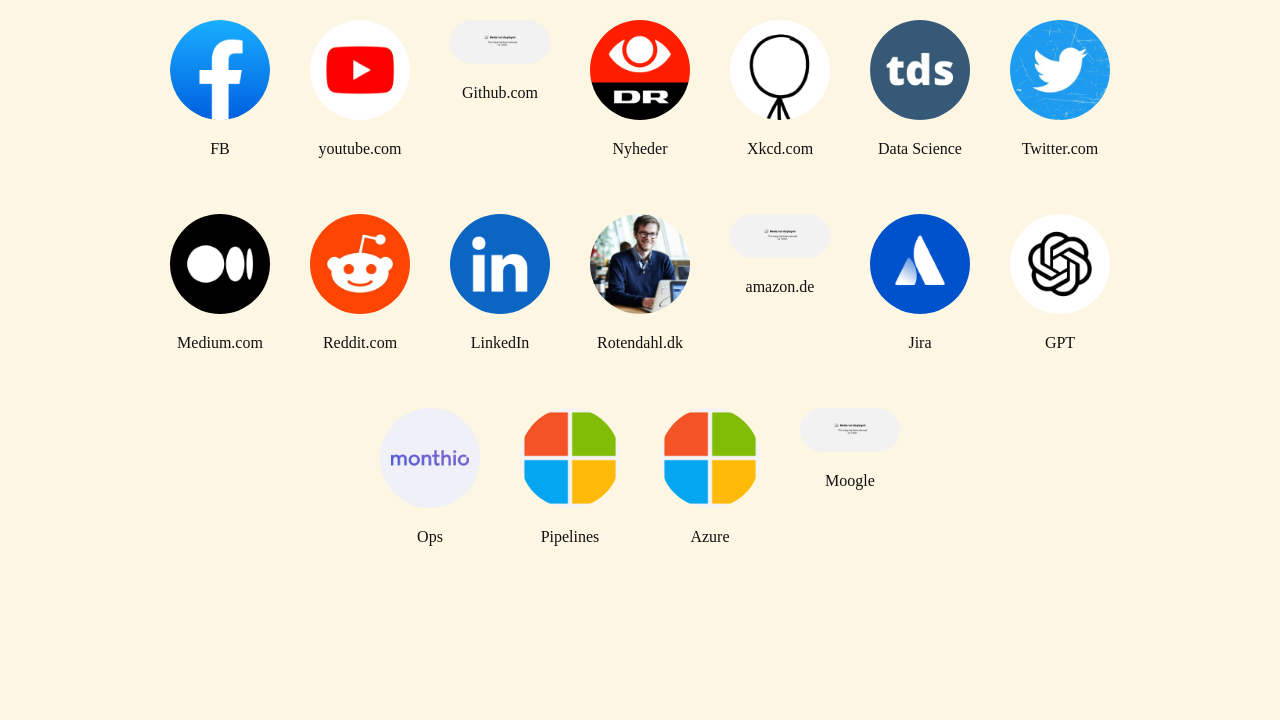
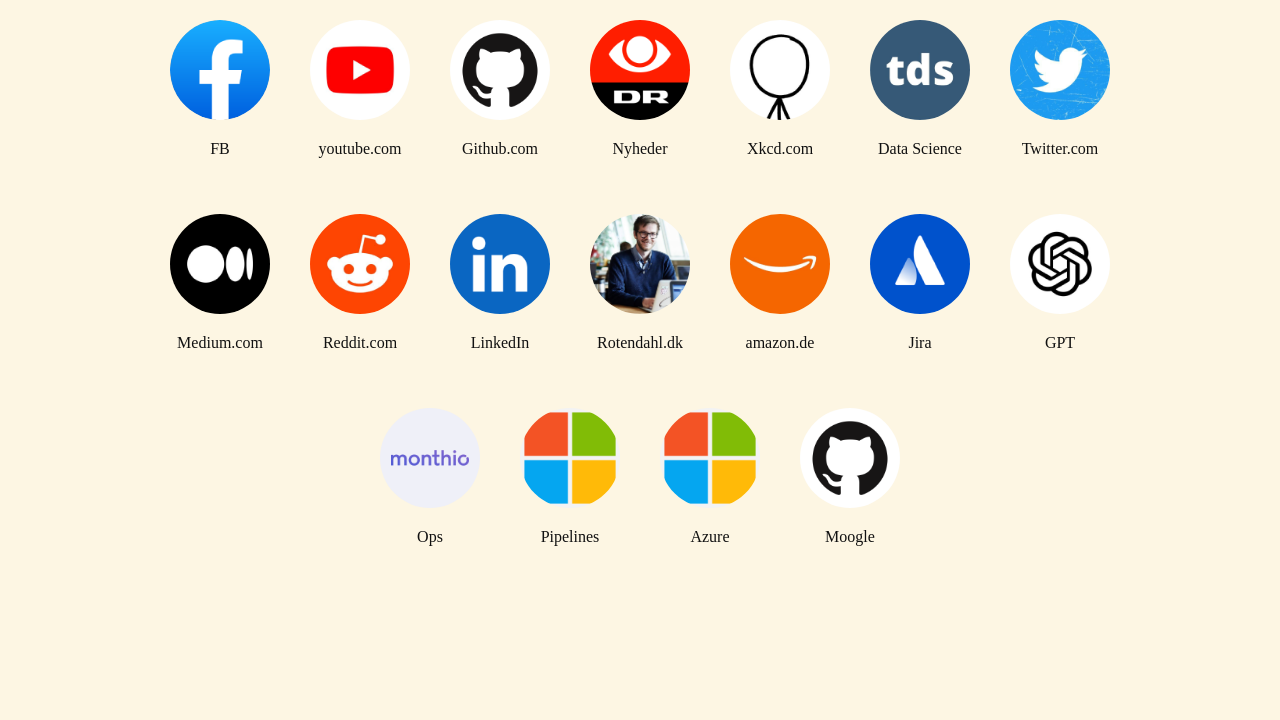
Deploying to gh-pages from @ Rotendahl/Start-Page-Generator@562b5926943e3353d2df2a14a7a23a3b75520e7e 🚀

diff --git a/index.html b/index.html
@@ -18,7 +18,7 @@
       	<p>youtube.com</p>
       </a>
       <a href="https://Github.com/">
-      	<img src="https://logo.clearbit.com//Github.com" />
+      	<img src="https://github.githubassets.com/images/modules/logos_page/GitHub-Mark.png" />
       	<p>Github.com</p>
       </a>
       <a href="https://dr.dk/">
@@ -77,8 +77,8 @@
       	<img src="https://logo.clearbit.com//portal.azure.com" />
       	<p>Azure</p>
       </a>
-      <a href="https://github.com/">
-      	<img src="https://logo.clearbit.com//github.com" />
+      <a href="https://github.com/search?type=code&q=org%3Amonthio">
+      	<img src="https://github.githubassets.com/images/modules/logos_page/GitHub-Mark.png" />
       	<p>Moogle</p>
       </a>
 
